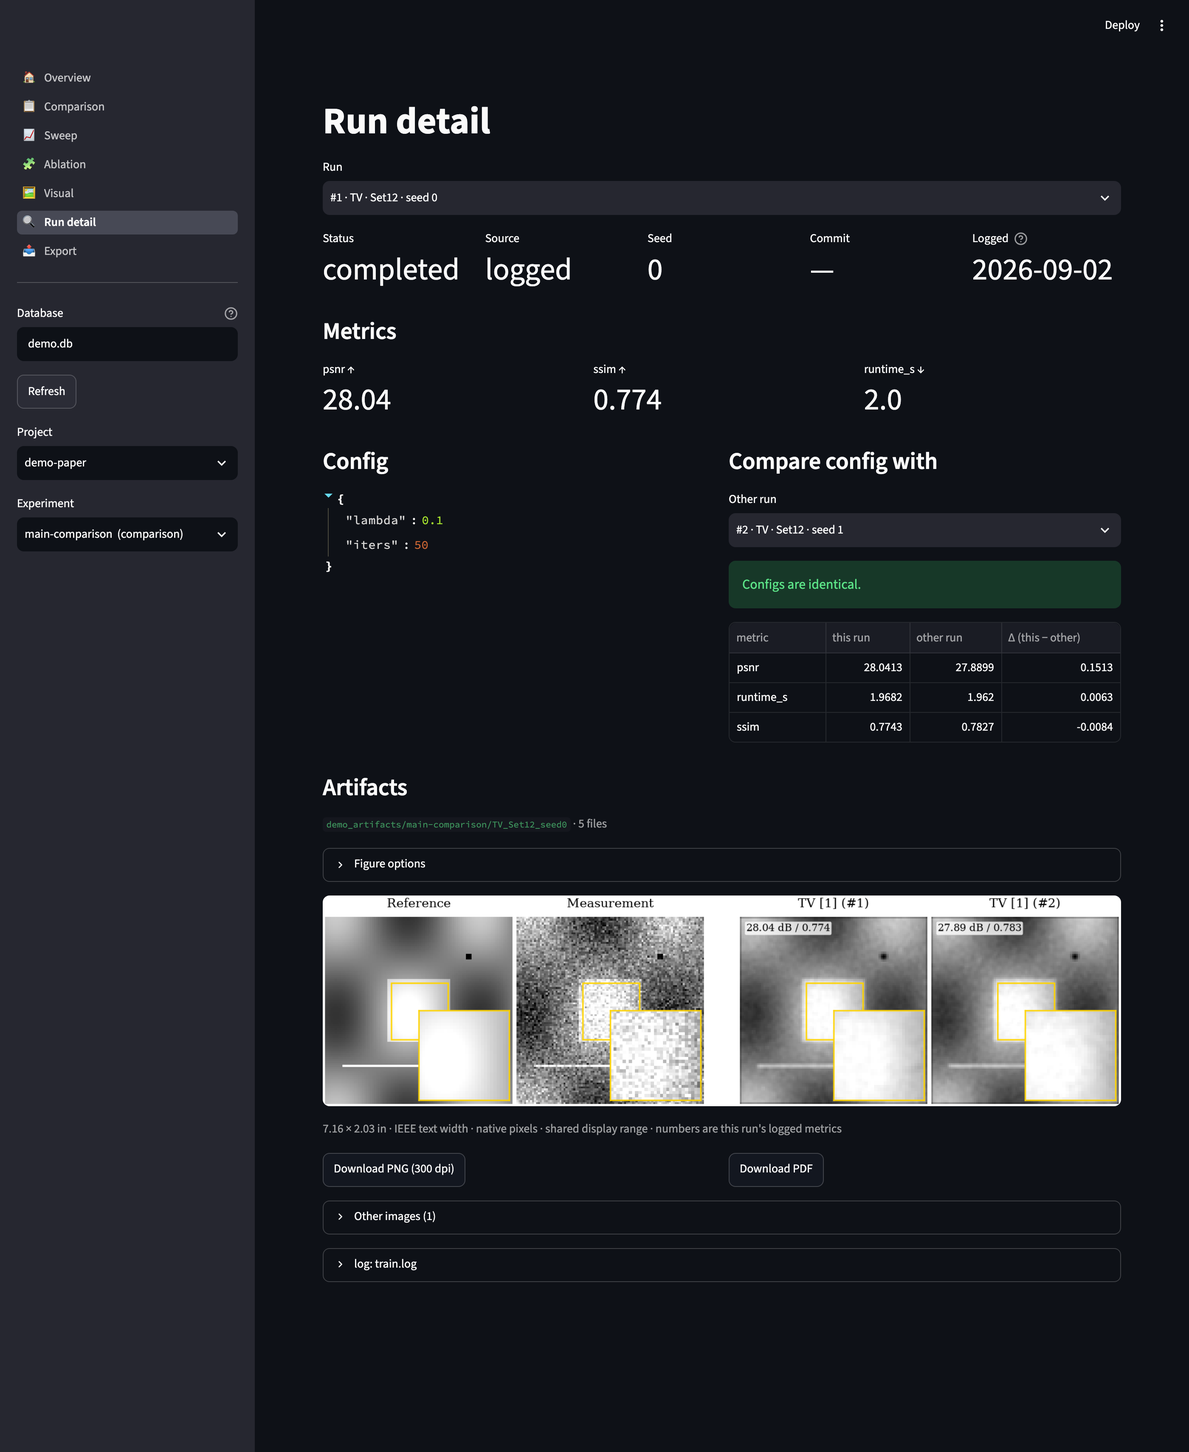
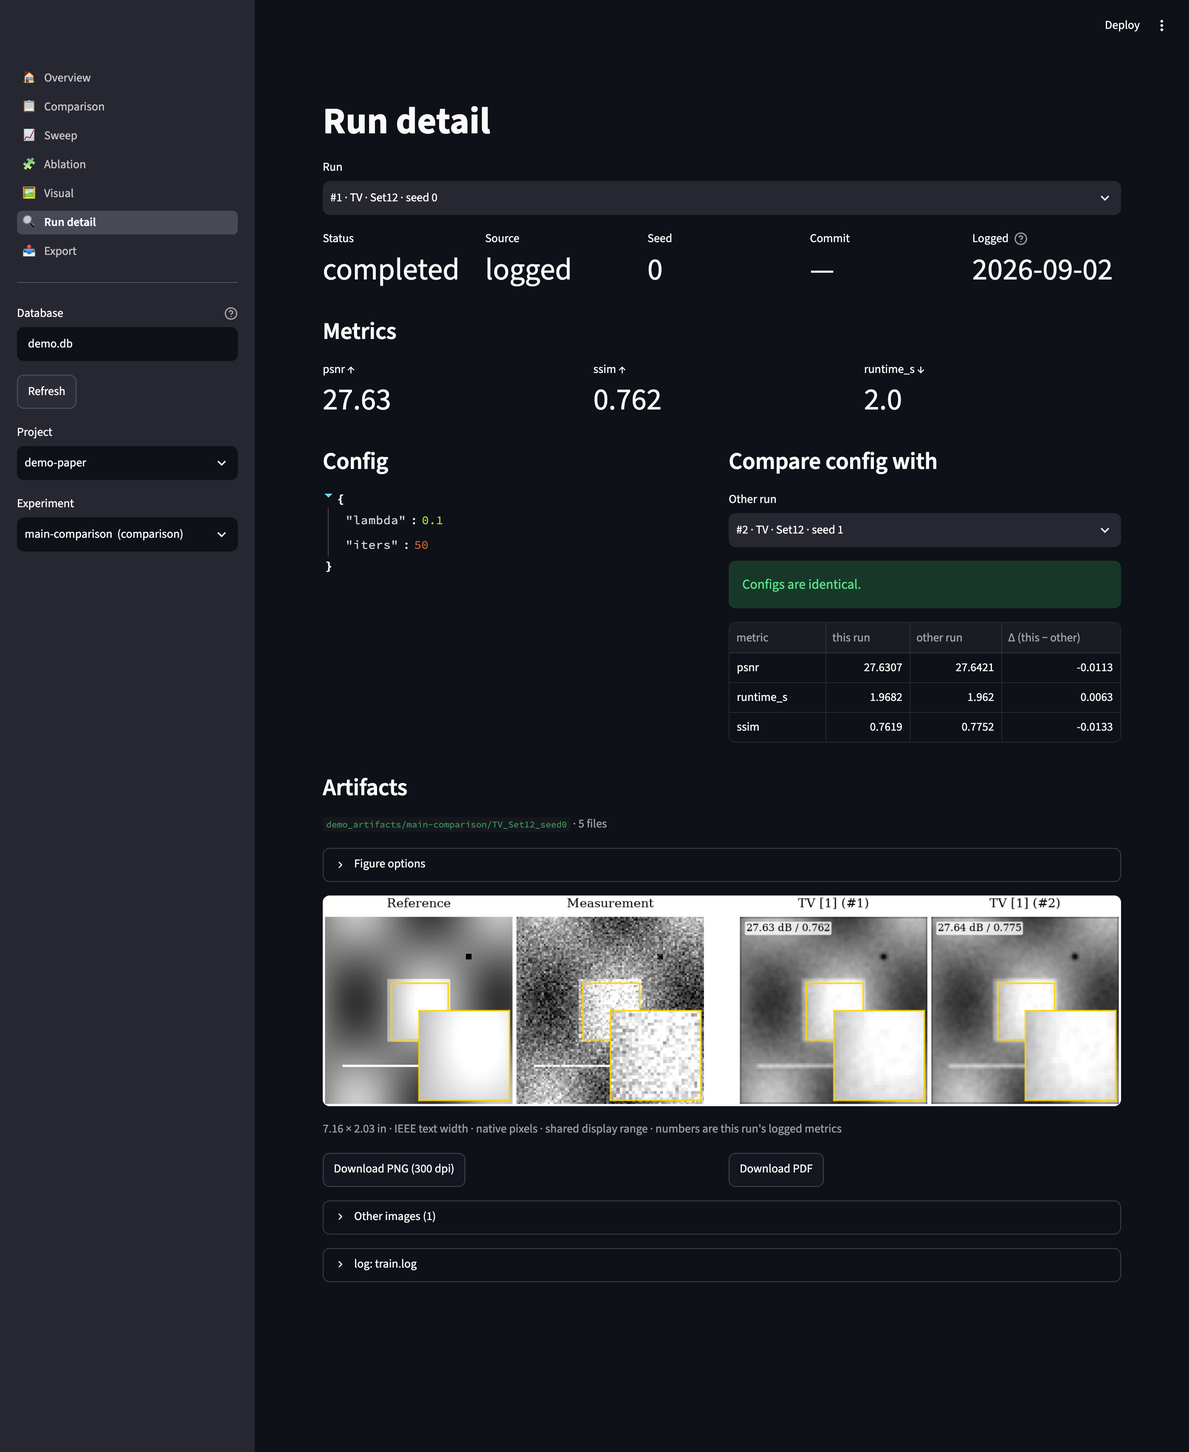
visual page: paper framing and a logged-vs-image PSNR audit
- page rebuilt on export/visual.make_visual (one code path with the CLI,
  Export page and bundle)
- IEEEtran-style 'Fig. 1.' caption block under the figure; source files as a
  booktabs table
- Panel metrics table: logged metrics per shown run plus PSNR recomputed from
  the displayed image against the ground truth (luminance, 10 px border,
  data range 1 — the lab's convention); gaps > 0.05 dB are flagged
- demo: the logged PSNR is now the one measured on the saved 8-bit image, so
  the demo's figures and tables agree (the audit had caught that they did not)
- 95 tests; screenshots, sample figures and tour GIF regenerated

Changed region(s): [[0.6214, 0.6202, 0.9632, 0.7753], [0.2486, 0.6202, 0.5904, 0.7753], [0.5282, 0.2481, 0.5593, 0.2791]]

diff --git a/src/results_tracker/ui/visual.py b/src/results_tracker/ui/visual.py
@@ -1,21 +1,24 @@
 """Visual comparison page in the lab's IEEE reconstruction-figure style.
 
-Reference | Measurement block, spacer, baselines -> proposed. Zoom inset, metric stamps, error-map mode,
-optional rows (seed / instance / a config key such as K) and an optional kernel thumbnail.
+Reference | Measurement block, spacer, baselines -> proposed (export/visual.make_visual). Below the figure:
+an IEEEtran-style caption, a panel-metrics table that cross-checks the logged PSNR against PSNR recomputed
+from the shown image, and the source files, all in the paper look.
 """
 
 from __future__ import annotations
 
 import json
-from typing import Optional
 from dataclasses import asdict
+from pathlib import Path
+from typing import Optional
 
 import streamlit as st
 
 from .. import aggregate as agg
 from ..export.figures import figure_bytes, figure_tex, to_grayscale_png
-from ..export.visual import ZOOM_FRACTION, build_panels, build_rows, guess_roles, list_image_files, reconstruction_figure
+from ..export.visual import ZOOM_FRACTION, build_panels, guess_roles, list_image_files, make_visual, panel_metrics_rows
 from .common import load_metric_defs, load_records, select_project_experiment, sidebar_db
+from .tables import figure_caption_html, generic_html
 
 NONE = "— none —"
 
@@ -52,7 +55,6 @@ def render() -> None:
         pool = [r for r in pool if instance is None or r.get("instance") == instance]
         seeds = sorted({r["seed"] for r in pool if r.get("seed") is not None})
         seed = st.selectbox("Seed", seeds) if seeds and row_key != "seed" else None
-        pool_sel = [r for r in pool if seed is None or r.get("seed") == seed]
         files = list_image_files(r["artifacts_dir"] for r in pool)
         if not files:
             st.warning("No image files found in the artifact folders.")
@@ -66,8 +68,8 @@ def render() -> None:
         metrics_all = agg.metric_names(pool)
         metrics = st.multiselect("Metrics stamped on panels", metrics_all, default=[m for m in metrics_all if m in ("psnr", "ssim")][:2])
 
-    ordered = agg.select_runs(pool_sel)
-    method_names = list(dict.fromkeys(r["method"] for r in ordered))
+    pool_sel = [r for r in pool if seed is None or r.get("seed") == seed]
+    method_names = list(dict.fromkeys(r["method"] for r in agg.select_runs(pool_sel)))
     methods = st.multiselect("Methods (baselines first, proposed last)", method_names, default=method_names)
 
     c1, c2, c3, c4 = st.columns(4)
@@ -92,49 +94,26 @@ def render() -> None:
                 zoom_fraction = k1.slider("Box side (fraction of short side)", 0.1, 0.6, ZOOM_FRACTION, 0.05)
                 zoom_center = (k2.slider("Centre x", 0.0, 1.0, 0.5, 0.05), k3.slider("Centre y", 0.0, 1.0, 0.5, 0.05))
 
-    # panels
-    ref_arg = None if reference == NONE else reference
-    meas_arg = None if measurement == NONE else measurement
-    ker_arg = None if kernel == NONE else kernel
-    if row_key:
-        shown = [r for r in pool if r.get("artifacts_dir")]
-        for label, why in agg.omitted_methods(recs, shown, dataset=dataset).items():
-            st.warning(f"Not shown: {label} — {why}.")
-        rows, problems = build_rows(pool, row_key, image, defs, metrics=metrics, methods=methods, reference=ref_arg)
-        aux, ref_panel, probs2 = build_panels(shown[:1], image, defs, reference=ref_arg, measurement=meas_arg, kernel=ker_arg)
-        meas_panel = next((p for p in aux if p.kind == "measurement"), None)
-        ker_panel = next((p for p in aux if p.kind == "kernel"), None)
-        problems += [pr for pr in probs2 if pr.startswith(("reference", "measurement", "kernel"))]
-        panel_arg = rows
-    else:
-        chosen = agg.select_runs(pool_sel, methods=methods)
-        for label, why in agg.omitted_methods(recs, chosen, dataset=dataset).items():
-            st.warning(f"Not shown: {label} — {why}.")
-        panels, ref_panel, problems = build_panels(chosen, image, defs, metrics=metrics, reference=ref_arg,
-                                                   measurement=meas_arg, kernel=ker_arg)
-        meas_panel = next((p for p in panels if p.kind == "measurement"), None)
-        ker_panel = next((p for p in panels if p.kind == "kernel"), None)
-        panel_arg = [p for p in panels if p.kind == "method"]
-        rows = None
-    for pr in problems:
-        st.warning(pr)
-    if not panel_arg or (rows is not None and not any(r.panels for r in rows)):
-        st.error("Nothing to show.")
-        return
-
     try:
-        fig, spec = reconstruction_figure(
-            panel_arg, reference=ref_panel, measurement=meas_panel, kernel=ker_panel,
+        vr = make_visual(
+            recs, defs, experiment=experiment, dataset=dataset, seed=seed, instance=instance, image=image,
+            reference=None if reference == NONE else reference, measurement=None if measurement == NONE else measurement,
+            kernel=None if kernel == NONE else kernel, methods=methods or None, metrics=metrics,
             mode="error" if mode == "Error maps" else "image", zoom=zoom, zoom_fraction=zoom_fraction,
-            zoom_center=zoom_center, crop_box=crop_box, width=width,
+            zoom_center=zoom_center, crop_box=crop_box, rows=row_key, width=width, auto_roles=False,
         )
     except ValueError as e:
         st.error(str(e))
         return
-    spec.experiment, spec.dataset, spec.instance, spec.seed, spec.image = experiment, dataset, instance, seed, image
-    png = figure_bytes(fig, "png", dpi=200)
+    for label, why in vr.omitted.items():
+        st.warning(f"Not shown: {label} — {why}.")
+    for pr in vr.problems:
+        st.warning(pr)
+
+    png = figure_bytes(vr.fig, "png", dpi=200)
     st.image(to_grayscale_png(png) if gray else png)
-    fw, fh = fig.get_size_inches()
+    st.markdown(figure_caption_html(vr.spec.caption_stub(), number=1), unsafe_allow_html=True)
+    fw, fh = vr.fig.get_size_inches()
     st.caption(f"{fw:.2f} × {fh:.2f} in · IEEE text width · native pixels · shared display range"
                + (" and error scale" if mode == "Error maps" else ""))
 
@@ -142,14 +121,35 @@ def render() -> None:
            ("-error" if mode == "Error maps" else ("-zoom" if zoom else "")) + "-visual"
     stem = stem.replace(" ", "_")
     d1, d2, d3 = st.columns(3)
-    d1.download_button("Download PNG (300 dpi)", figure_bytes(fig, "png", dpi=300), file_name=f"{stem}.png", mime="image/png")
-    d2.download_button("Download PDF", figure_bytes(fig, "pdf"), file_name=f"{stem}.pdf", mime="application/pdf")
-    d3.download_button("Download provenance JSON", json.dumps(asdict(spec), indent=2, default=str),
+    d1.download_button("Download PNG (300 dpi)", figure_bytes(vr.fig, "png", dpi=300), file_name=f"{stem}.png", mime="image/png")
+    d2.download_button("Download PDF", figure_bytes(vr.fig, "pdf"), file_name=f"{stem}.pdf", mime="application/pdf")
+    d3.download_button("Download provenance JSON", json.dumps(asdict(vr.spec), indent=2, default=str),
                        file_name=f"{stem}.json", mime="application/json")
 
-    st.subheader("Caption material")
-    st.write(spec.caption_stub())
+    # --- panel metrics: logged vs recomputed from the shown image (single-row figures)
+    if not row_key:
+        chosen = agg.select_runs(pool_sel, methods=methods or None)
+        panels, ref_panel, _ = build_panels(chosen, image, defs, metrics=metrics,
+                                            reference=None if reference == NONE else reference)
+        headers, rows, warns = panel_metrics_rows(chosen, panels, ref_panel, defs, metrics=metrics or ("psnr",))
+        st.subheader("Panel metrics")
+        st.markdown(generic_html(headers, rows, number=1, left_cols=1,
+                                 caption="Metrics of the shown images: as logged with the run, and PSNR recomputed from the "
+                                         "displayed reconstruction against the ground truth (luminance, 10 px border dropped, "
+                                         "data range 1). A gap flags a mismatch between the figure and the table numbers."),
+                    unsafe_allow_html=True)
+        for w in warns:
+            st.warning(w)
+        if ref_panel is not None and not warns and rows:
+            st.success("Logged PSNR matches the displayed images within 0.05 dB for every panel.")
+
     with st.expander("LaTeX figure snippet"):
-        st.code(figure_tex(f"figures/{stem}.pdf", caption=spec.caption_stub(), label="fig:visual", width=width), language="latex")
+        st.code(figure_tex(f"figures/{stem}.pdf", caption=vr.spec.caption_stub(), label="fig:visual", width=width), language="latex")
     with st.expander("Source files"):
-        st.write([{"panel": p["title"], "path": p["path"], **({"row": p["row"]} if p.get("row") else {})} for p in spec.panels])
+        srows = []
+        for p in vr.spec.panels:
+            pth = Path(p["path"]) if p.get("path") else None
+            srows.append([p["title"], p.get("kind", ""), p.get("row", "") or "—", str(pth) if pth else "—"])
+        st.markdown(generic_html(["Panel", "Role", "Row", "Path"], srows, left_cols=4,
+                                 caption="Every image in the figure and where it came from (also in the provenance JSON)."),
+                    unsafe_allow_html=True)

diff --git a/src/results_tracker/export/visual.py b/src/results_tracker/export/visual.py
@@ -612,3 +612,66 @@ def make_visual(
                                       width=width)
     spec.experiment, spec.dataset, spec.instance, spec.seed, spec.image = experiment, dataset, instance, seed, image
     return VisualResult(fig, spec, problems, omitted)
+
+
+# --------------------------------------------------------------------------- panel metrics audit
+
+METRIC_BORDER_CROP = 10  # lab convention (demo_utils.compute_per_image_metrics): drop a 10 px border
+
+
+def panel_psnr(img: np.ndarray, ref: np.ndarray, border: int = METRIC_BORDER_CROP, data_range: float = 1.0) -> float:
+    """PSNR of the shown image against the reference, on luminance with a border crop (lab convention)."""
+    a, b = luminance(img), luminance(ref)
+    if a.shape != b.shape:
+        raise ValueError(f"shape mismatch {a.shape} vs {b.shape}")
+    bc = border if min(a.shape) > 2 * border + 2 else 0
+    a = a[bc:a.shape[0] - bc, bc:a.shape[1] - bc]
+    b = b[bc:b.shape[0] - bc, bc:b.shape[1] - bc]
+    return psnr(a, b, data_range)
+
+
+def panel_metrics_rows(
+    records: Sequence[Mapping[str, Any]],
+    panels: Sequence[Panel],
+    reference: Optional[Panel],
+    defs: Mapping[str, Mapping[str, Any]],
+    metrics: Sequence[str] = ("psnr", "ssim"),
+    tolerance_db: float = 0.05,
+) -> tuple[list[str], list[list[str]], list[str]]:
+    """Rows for a 'panel metrics' table: logged metrics per shown run plus PSNR recomputed from the image.
+
+    Returns (headers, rows, warnings). A gap between logged and recomputed PSNR beyond `tolerance_db` is
+    flagged: it usually means the logged number was computed on a different image, crop or data range."""
+    by_title = {(r.get("method_label") or r.get("method")): r for r in records}
+    headers = ["Panel"] + [f"{m} (logged)" for m in metrics] + (["PSNR (from image)", "Δ (dB)"] if reference is not None else [])
+    rows: list[list[str]] = []
+    warnings: list[str] = []
+    for p in panels:
+        if p.kind != "method":
+            continue
+        rec = by_title.get(p.title) or next((r for r in records if p.path and r.get("artifacts_dir") and
+                                              str(Path(p.path).parent) == str(Path(r["artifacts_dir"]).expanduser())), None)
+        logged = (rec or {}).get("metrics", {})
+        row = [p.title]
+        for m in metrics:
+            v = logged.get(m)
+            row.append("—" if v is None else format(v, defs.get(m, {}).get("fmt", ".2f")))
+        if reference is not None:
+            try:
+                comp = panel_psnr(p.image, reference.image)
+            except ValueError as e:
+                row += ["—", str(e)]
+                rows.append(row)
+                continue
+            row.append(f"{comp:.2f}")
+            lv = logged.get("psnr")
+            if lv is None:
+                row.append("—")
+            else:
+                d = comp - float(lv)
+                row.append(f"{d:+.2f}")
+                if abs(d) > tolerance_db:
+                    warnings.append(f"{p.title}: logged PSNR {float(lv):.2f} dB vs {comp:.2f} dB recomputed from the shown image "
+                                    f"(Δ {d:+.2f} dB). Different image, crop, border or data range?")
+        rows.append(row)
+    return headers, rows, warnings

diff --git a/src/results_tracker/demo.py b/src/results_tracker/demo.py
@@ -49,11 +49,13 @@ def _scene(dataset: str, seed: int, n: int = 96):
     return np.clip(gt, 0, 1), np.random.default_rng(hash((dataset, seed)) % (2**32))
 
 
-def _write_artifacts(root: Path, method: str, dataset: str, seed: int, psnr: float, rng: random.Random) -> str:
+def _write_artifacts(root: Path, method: str, dataset: str, seed: int, psnr: float, rng: random.Random) -> tuple[str, float]:
     """Reconstruction / error map / measurement / ground truth PNGs plus a log, all from one shared scene.
 
-    The measurement and ground truth are identical across methods for a given (dataset, seed), so the
-    Visual page can show a fair comparison with a shared error scale. Needs numpy + Pillow.
+    The measurement and ground truth are identical across methods for a given dataset, so the Visual page
+    can show a fair comparison with a shared error scale. Returns (dir, psnr measured on the saved 8-bit
+    reconstruction with the lab convention) so the logged number is traceable to the image on disk.
+    Needs numpy + Pillow.
     """
     d = root / "main-comparison" / f"{method}_{dataset}_seed{seed}"
     d.mkdir(parents=True, exist_ok=True)
@@ -62,7 +64,7 @@ def _write_artifacts(root: Path, method: str, dataset: str, seed: int, psnr: flo
         from PIL import Image
     except ImportError:  # pragma: no cover
         (d / "log.txt").write_text(f"{method} on {dataset}, seed {seed}\nfinal psnr {psnr:.2f}\n")
-        return str(d)
+        return str(d), psnr
 
     def save(arr, name):
         Image.fromarray((np.clip(arr, 0, 1) * 255).round().astype("uint8")).save(d / name)
@@ -80,11 +82,15 @@ def _write_artifacts(root: Path, method: str, dataset: str, seed: int, psnr: flo
     save(meas, "measurement.png")
     save(recon, "reconstruction.png")
     save(np.abs(recon - gt) / 0.3, "error_map.png")
+    # the number we log is the one a reader can recompute from the files: 8-bit images, 10 px border dropped
+    from .export.visual import load_image, panel_psnr
+
+    measured = panel_psnr(load_image(d / "reconstruction.png"), load_image(d / "ground_truth.png"))
     lines = [f"method={method} dataset={dataset} seed={seed}", "iter  psnr"]
     for it in range(0, 51, 10):
-        lines.append(f"{it:4d}  {psnr - (50 - it) * 0.05:.2f}")
+        lines.append(f"{it:4d}  {measured - (50 - it) * 0.05:.2f}")
     (d / "train.log").write_text("\n".join(lines) + "\n")
-    return str(d)
+    return str(d), measured
 
 
 def seed_demo(db=None, engine=None, rng_seed: int = 0, artifacts_dir: Optional[str] = None) -> dict[str, int]:
@@ -110,7 +116,9 @@ def seed_demo(db=None, engine=None, rng_seed: int = 0, artifacts_dir: Optional[s
         for ds in DATASETS:
             for s in SEEDS:
                 psnr = base_psnr[m] + (0.4 if ds == "Set12" else -0.3) + rng.gauss(0, 0.15)
-                art = _write_artifacts(art_root, m, ds, s, psnr, rng) if art_root else None
+                art = None
+                if art_root:
+                    art, psnr = _write_artifacts(art_root, m, ds, s, psnr, rng)  # log what the image on disk shows
                 log_run(
                     "main-comparison", project=PROJECT, experiment_type="comparison",
                     method=m, dataset=ds, seed=s, config={"lambda": 0.1, "iters": 50},

diff --git a/tests/test_visual.py b/tests/test_visual.py
@@ -10,7 +10,7 @@ from results_tracker import aggregate as agg  # noqa: E402
 from results_tracker.export.figures import figure_tex, ieee_preamble, to_grayscale_png, figure_bytes  # noqa: E402
 from results_tracker.export.visual import (  # noqa: E402
     IEEE_TEXTWIDTH_IN, Panel, PanelRow, build_panels, build_rows, crop, error_map, list_image_files, load_image,
-    guess_roles, luminance, psnr, reconstruction_figure, save_visual, zoom_region,
+    guess_roles, luminance, panel_metrics_rows, panel_psnr, psnr, reconstruction_figure, save_visual, zoom_region,
 )
 
 DEFS = {"psnr": {"unit": "dB", "higher_is_better": True, "fmt": ".2f"}, "ssim": {"unit": "", "higher_is_better": True, "fmt": ".3f"}}
@@ -207,3 +207,22 @@ def test_guess_roles():
     r2 = guess_roles(["out/x_hat.png", "clean.png"])
     assert r2["reconstruction"] == "out/x_hat.png" and r2["reference"] == "clean.png" and r2["measurement"] is None
     assert guess_roles(["a.png"])["reconstruction"] == "a.png" and guess_roles([])["reconstruction"] is None
+
+
+def test_panel_psnr_and_metrics_rows(art):
+    gt, recs = art
+    panels, ref, _ = _panels(art)
+    methods = [p for p in panels if p.kind == "method"]
+    # recomputed PSNR: Ours (sigma 0.02) beats TV (sigma 0.08); identical image -> inf
+    assert panel_psnr(methods[1].image, ref.image) > panel_psnr(methods[0].image, ref.image)
+    assert panel_psnr(ref.image, ref.image) == float("inf")
+    with pytest.raises(ValueError):
+        panel_psnr(ref.image, ref.image[:10])
+    headers, rows, warns = panel_metrics_rows(recs, panels, ref, DEFS, metrics=["psnr", "ssim"])
+    assert headers == ["Panel", "psnr (logged)", "ssim (logged)", "PSNR (from image)", "Δ (dB)"]
+    assert [r[0] for r in rows] == ["TV [1]", "Ours"] and rows[0][1] == "30.00" and rows[0][2] == "0.900"
+    # the fixture's logged numbers are invented, so they must be flagged against the recomputed ones
+    assert len(warns) == 2 and all("recomputed" in w for w in warns)
+    # no reference -> no computed columns, no warnings
+    h2, r2, w2 = panel_metrics_rows(recs, panels, None, DEFS, metrics=["psnr"])
+    assert h2 == ["Panel", "psnr (logged)"] and len(r2[0]) == 2 and w2 == []

diff --git a/src/results_tracker/ui/tables.py b/src/results_tracker/ui/tables.py
@@ -36,6 +36,8 @@ table.ieee th.group span { display:block; border-bottom:.8px solid #000; margin:
 table.ieee td.base { font-weight:normal; }
 table.ieee small { font-size:12px; }
 table.ieee .std { font-size:15px; }
+.ieee-figcap { font-size:14px; line-height:1.4; text-align:justify; margin:6px auto 0 auto; max-width:900px; }
+.ieee-figcap b { font-weight:bold; }
 </style>
 """
 
@@ -312,3 +314,8 @@ def generic_html(
         body.append(f"<tr>{''.join(cells)}</tr>")
     table = f'<table class="ieee"><thead><tr class="top head">{head}</tr></thead><tbody>{"".join(body)}</tbody></table>'
     return _wrap(table, caption, number)
+
+
+def figure_caption_html(text: str, number: int = 1) -> str:
+    """IEEEtran-style figure caption ("Fig. 1. ...") in the paper look, placed under a rendered figure."""
+    return CSS + f'<div class="ieee-paper" style="display:block"><div class="ieee-figcap"><b>Fig. {number}.</b> {_esc(text)}</div></div>'

diff --git a/tests/test_tables.py b/tests/test_tables.py
@@ -1,5 +1,5 @@
 from results_tracker import aggregate as agg
-from results_tracker.ui.tables import ablation_html, comparison_html, delatex, flat_html, generic_html, sweep_html
+from results_tracker.ui.tables import ablation_html, comparison_html, delatex, figure_caption_html, flat_html, generic_html, sweep_html
 
 DEFS = {"psnr": {"unit": "dB", "higher_is_better": True, "fmt": ".2f"},
         "rmse": {"unit": "", "higher_is_better": False, "fmt": ".3f"}}
@@ -81,3 +81,8 @@ def test_generic_html():
     assert "TABLE II" in h and "Cap &amp; more" in h
     assert '<td style="text-align:left">main</td>' in h and "<td>18</td>" in h and "<td>None</td>" in h  # raw column not escaped/dashed
     assert 'tr class="top head"' in h
+
+
+def test_figure_caption_html():
+    h = figure_caption_html("Sample: Set12 <b>x</b>.", number=3)
+    assert "<b>Fig. 3.</b>" in h and "&lt;b&gt;x&lt;/b&gt;" in h and 'class="ieee-figcap"' in h

diff --git a/README.md b/README.md
@@ -32,7 +32,7 @@ non-trivial:
 | ![](docs/screenshots/overview.png) | **Overview** — experiments with run counts, methods, datasets and metrics; a "results at a glance" table that reads each experiment's headline off the data (best method, best swept value, costliest ablation); recent runs. All in the paper look. |
 | ![](docs/screenshots/sweep.png) | **Sweep** — PSNR vs λ on a log axis, ± std band, best value ringed. The diverged run shows up as n = 2, not as a silently smoother curve. |
 | ![](docs/screenshots/ablation.png) | **Ablation** — settings matrix computed from config diffs, deltas vs the full model, blue helps / red hurts. |
-| ![](docs/screenshots/visual.png) | **Visual** — qualitative comparison: reference, measurement, baselines, proposed. One crop box, one display range and one error-map scale for every method; metrics under each panel; provenance JSON with every source path. |
+| ![](docs/screenshots/visual.png) | **Visual** — qualitative comparison in the lab's figure layout: ground truth, measurement, baselines, proposed, with the same zoom inset or one error-map scale on every panel and metrics stamped per panel. Below it an IEEE-style caption, a panel-metrics table that recomputes PSNR from the displayed images and flags any gap to the logged numbers, and the source files. |
 | ![](docs/screenshots/run.png) | **Run detail** — config, metrics, config diff against any run, and the run's artifacts rendered as a lab-style figure strip (ground truth, measurement, this run stamped with its metrics, optionally the compared run), with zoom inset or error-map mode and PDF download. |
 | ![](docs/screenshots/export.png) | **Export** — booktabs LaTeX with a compiled-look preview and provenance comment; figures and qualitative grids as vector PDF with `figure` snippets; the comparison export audits the grid first (7/8 cells present, 1 missing); and a one-click paper bundle that regenerates every asset for the project into one zip with a manifest. |
 

diff --git a/CLAUDE.md b/CLAUDE.md
@@ -7,7 +7,7 @@ them in a Streamlit GUI, export booktabs LaTeX tables and IEEE-sized matplotlib 
 
 ```bash
 source .venv/bin/activate            # or use .venv/bin/<tool> directly
-pytest -q                            # 93 tests, ~8 s
+pytest -q                            # 95 tests, ~8 s
 results-tracker demo --db demo.db --reset --artifacts demo_artifacts
 results-tracker ui --db demo.db      # GUI on http://localhost:8501 (falls back to a free port)
 results-tracker export table -e main-comparison --db demo.db
